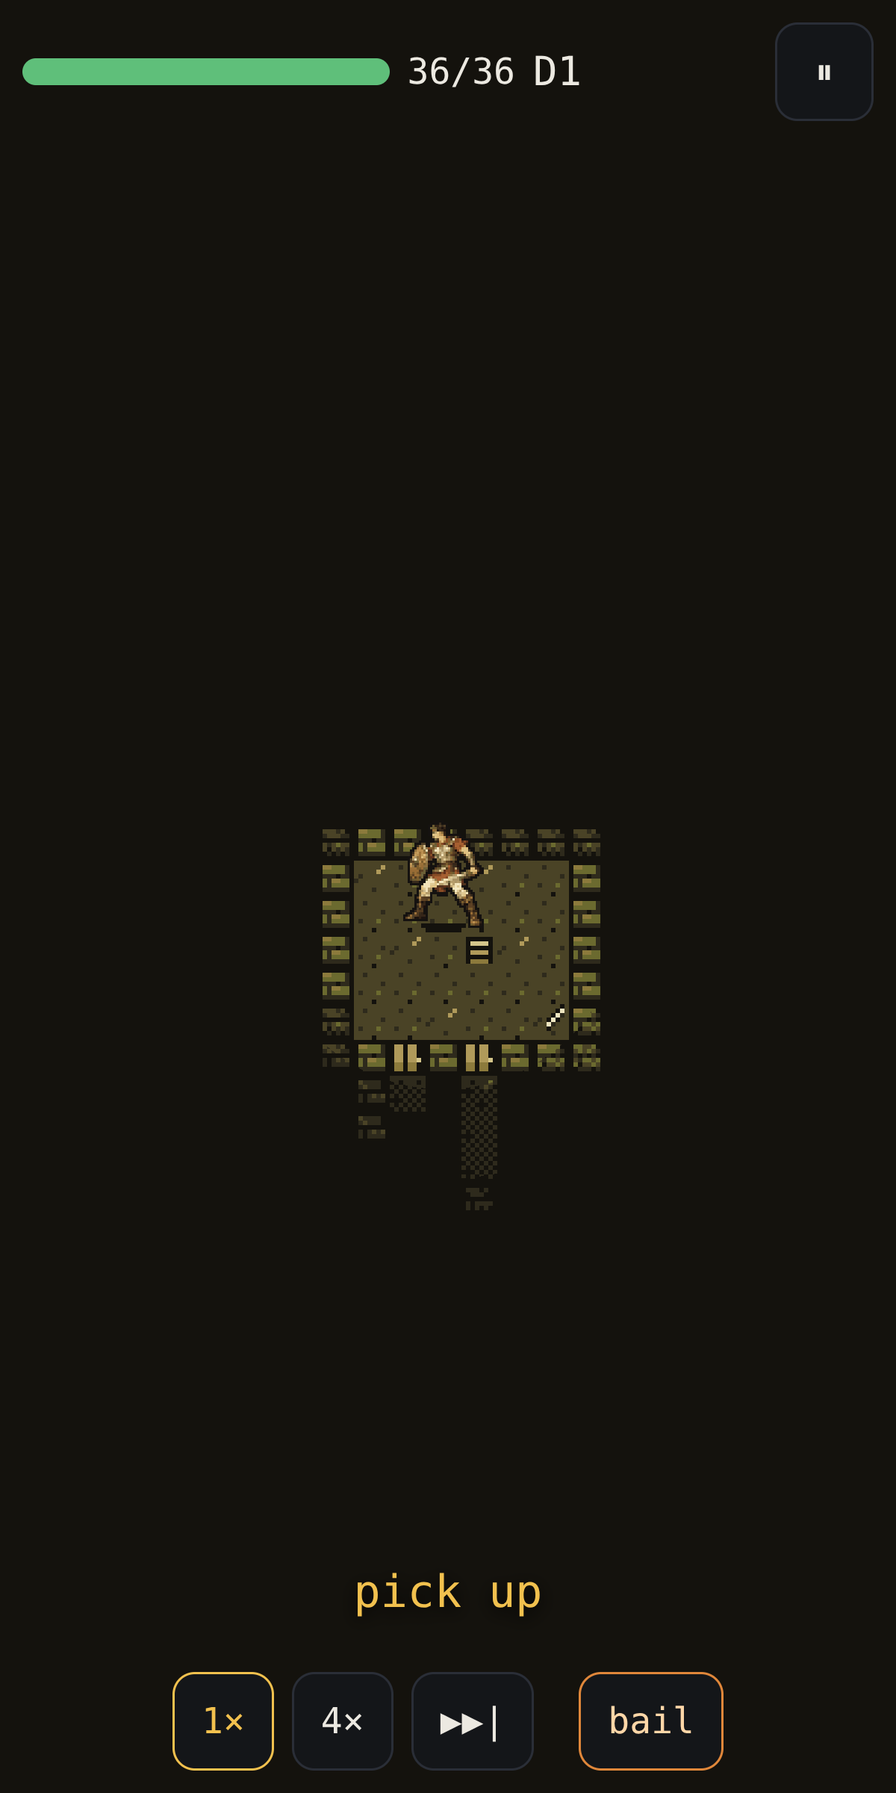
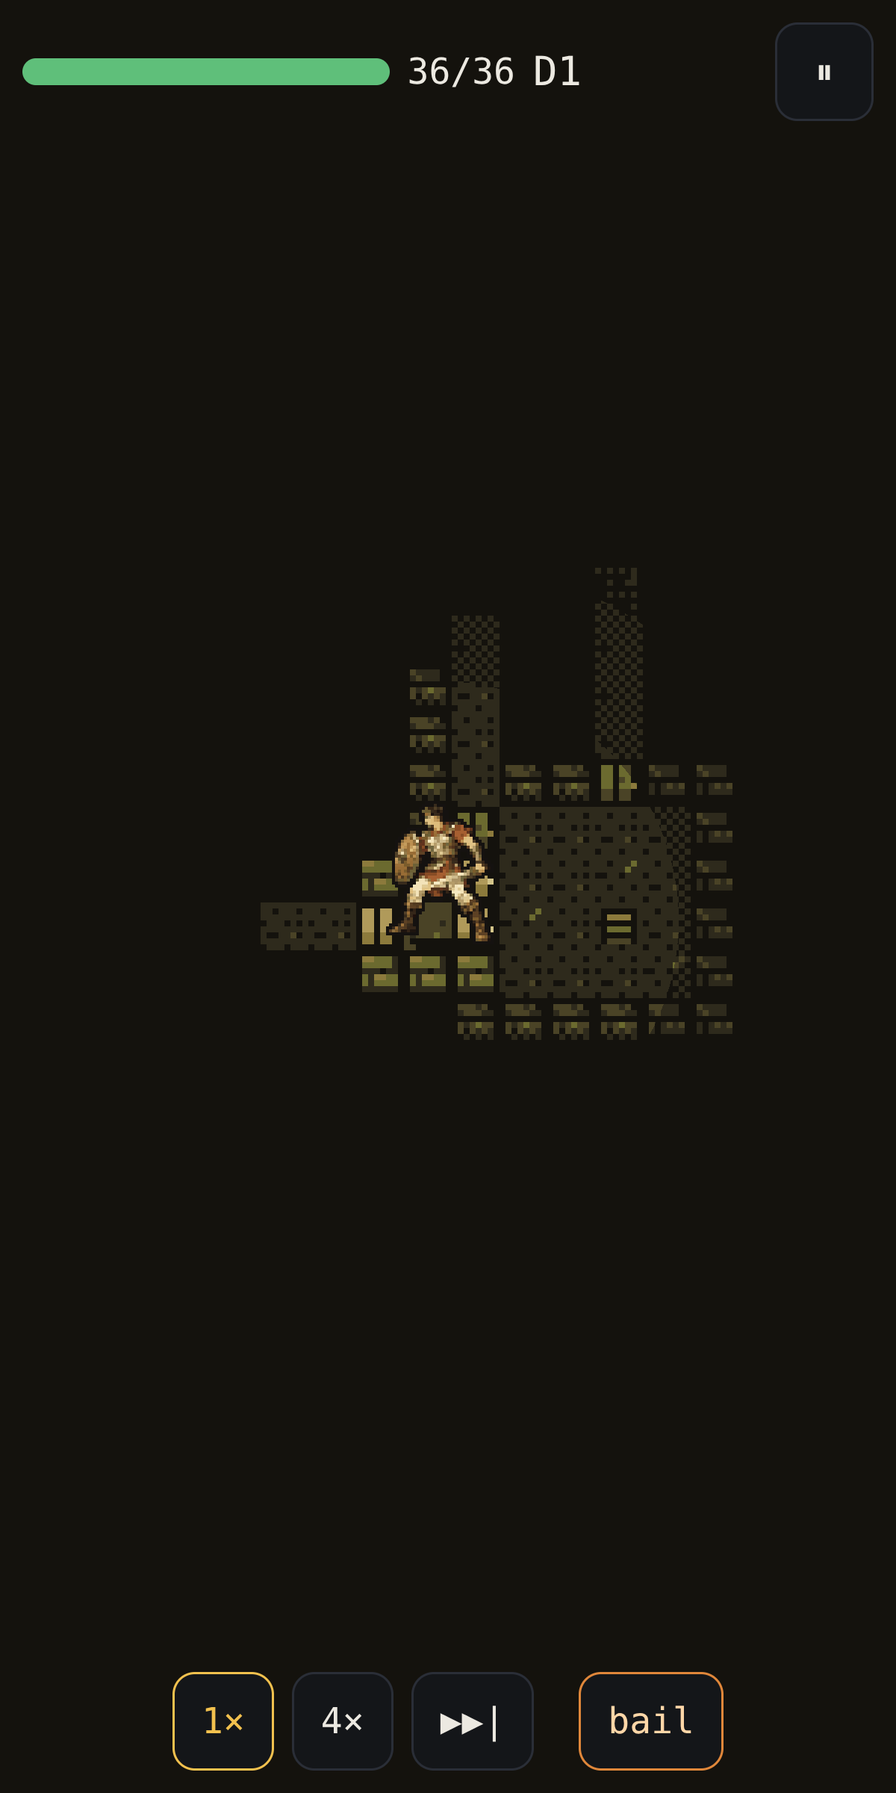
client: phone scale, chunked offline with live progress, ending screen, companion names

Changed region(s): [[0.2775, 0.3125, 0.8325, 0.6875], [0.4008, 0.875, 0.5242, 0.9062], [0.555, 0.875, 0.6167, 0.9062]]

diff --git a/web/src/app.ts b/web/src/app.ts
@@ -7,6 +7,7 @@ import { renderCamp } from "./ui/camp";
 import { renderWatch } from "./ui/watch";
 import { renderDeath } from "./ui/death";
 import { renderReport } from "./ui/report";
+import { renderEnding } from "./ui/ending";
 import { closeAllSheets } from "./ui/sheet";
 import { showBusy } from "./ui/progress";
 
@@ -14,13 +15,17 @@ export type Screen =
   | { kind: "camp"; highlight?: number }
   | { kind: "watch" }
   | { kind: "death"; death: Death; lost?: string[] }
-  | { kind: "report"; report: ReturnReport };
+  | { kind: "report"; report: ReturnReport }
+  | { kind: "ending" };
 
 export type Mounted = { el: HTMLElement; dispose?: () => void };
 
 const OFFLINE_MIN_S = 60;
 const SETS = 3;
 const SAVE_DEBOUNCE_MS = 1000;
+// runOffline is chunked so the progress label can count runs. Every slice pays the worst-death verdict
+// (~2.3 s in wasm), so slices grow with the absence: 30 min for an hour away, 80 min for 8 h, 2 h cap.
+const OFFLINE_SLICE_MIN_S = 30 * 60, OFFLINE_SLICE_MAX_S = 2 * 3600, OFFLINE_SLICES = 6;
 
 export class App {
   engine!: AsyncEngine;
@@ -42,6 +47,9 @@ export class App {
   private fcDirty = false;
   private fcListeners = new Set<(f: Forecast) => void>();
   private changeListeners = new Set<() => void>();
+  private offlineRunning = false;
+  /** Runs seen by this client (the wire Lineage has no run counter); persisted in the blob. */
+  runsSeen = 0;
 
   constructor(root: HTMLElement) { this.root = root; }
 
@@ -55,6 +63,7 @@ export class App {
       try {
         this.lineage = await this.engine.load(blob.engine);
         this.loadout = blob.loadout;
+        this.runsSeen = blob.runs ?? 0;
         elapsed = Math.max(0, (Date.now() - blob.last_seen) / 1000);
         loaded = true;
       } catch (e) { console.warn("save rejected, new lineage", e); }
@@ -67,7 +76,10 @@ export class App {
     window.addEventListener("pagehide", () => this.flushSync());
     setInterval(() => { if (!document.hidden) void this.flush(); }, 30_000);
     if (loaded && elapsed >= OFFLINE_MIN_S) {
-      const report = await this.busy(/* copy:label */ "offline", () => this.engine.runOffline(Math.floor(elapsed)));
+      // the camp (last state) shows underneath, inert, while the batch runs (no forecast queued ahead of it)
+      this.offlineRunning = true;
+      this.go({ kind: "camp" });
+      const report = await this.runOfflineChunked(Math.floor(elapsed));
       await this.refresh();
       this.adoptSets();
       this.go({ kind: "report", report });
@@ -77,8 +89,44 @@ export class App {
 
   /** Runs an engine call behind the progress bar. */
   async busy<T>(label: string, fn: () => Promise<T>): Promise<T> {
-    const done = showBusy(label);
-    try { return await fn(); } finally { done(); }
+    const b = showBusy(label);
+    try { return await fn(); } finally { b.done(); }
+  }
+
+  /** `runOffline` in ≤ 30-minute slices, reports merged client-side, progress label `runs N · best Dk`. */
+  async runOfflineChunked(elapsedS: number): Promise<ReturnReport> {
+    this.offlineRunning = true;
+    this.root.inert = true;
+    const b = showBusy(/* copy:label */ "offline");
+    let merged: ReturnReport | null = null;
+    try {
+      const slice = Math.min(OFFLINE_SLICE_MAX_S, Math.max(OFFLINE_SLICE_MIN_S, Math.ceil(elapsedS / OFFLINE_SLICES)));
+      for (let left = elapsedS; left > 0; left -= slice) {
+        const r = await this.engine.runOffline(Math.min(left, slice));
+        merged = merged ? mergeReports(merged, r) : r;
+        const best = Math.max(this.lineage.best_depth, ...merged.bests.map((x) => Number(/^D(\d+)$/.exec(x)?.[1] ?? 0)));
+        b.set(`runs ${merged.runs} · best D${best}`);
+      }
+    } finally { b.done(); this.root.inert = false; this.offlineRunning = false; }
+    this.runsSeen += merged!.runs;
+    return merged!;
+  }
+  totalRuns(): number { return this.runsSeen; }
+
+  /** After the ending: a fresh lineage that keeps the player's three rule sets (facts, classes, meta reset —
+   *  the core has no carry-over method). */
+  async again(): Promise<void> {
+    const sets = this.sets.map(cloneSet); const active = this.active;
+    this.lineage = await this.engine.newLineage(randomSeed());
+    for (let i = 0; i < sets.length; i++) { await this.engine.selectSet(i); await this.engine.setRules(sets[i]).catch(() => { /* a set the fresh vocabulary rejects stays the preset */ }); }
+    await this.engine.selectSet(active);
+    this.lineage = await this.engine.lineage();
+    this.loadout = []; this.runsSeen = 0;
+    this.adoptSets();
+    await this.engine.loadout([]);
+    this.vocab = await this.engine.vocabulary();
+    await this.flush();
+    this.go({ kind: "camp" });
   }
 
   private async fresh(): Promise<void> {
@@ -106,7 +154,7 @@ export class App {
   onForecast(fn: (f: Forecast) => void): () => void { this.fcListeners.add(fn); return () => this.fcListeners.delete(fn); }
   async emitForecast(): Promise<void> {
     if (!this.fcListeners.size) return;
-    if (this.fcInFlight) { this.fcDirty = true; return; }
+    if (this.fcInFlight || this.offlineRunning) { this.fcDirty = true; return; }
     this.fcInFlight = true; this.fcDirty = false;
     try {
       const f = await this.busy(/* copy:label */ "forecast", () => this.engine.forecast());
@@ -171,14 +219,14 @@ export class App {
   }
   /** pagehide/visibilitychange cannot await the worker: write the last save string fetched. */
   private flushSync(): void { if (this.lastSave) writeBlob(this.blob()); }
-  private blob(): SaveBlob { return { v: 2, engine: this.lastSave, loadout: this.loadout, last_seen: Date.now() }; }
+  private blob(): SaveBlob { return { v: 2, engine: this.lastSave, loadout: this.loadout, last_seen: Date.now(), runs: this.runsSeen }; }
   exportSave(): string { return JSON.stringify(this.blob()); }
   async importSave(text: string): Promise<boolean> {
     try {
       const b = JSON.parse(text) as SaveBlob;
       if (!b || typeof b.engine !== "string") return false;
       this.lineage = await this.engine.load(b.engine);
-      this.loadout = b.loadout ?? [];
+      this.loadout = b.loadout ?? []; this.runsSeen = b.runs ?? 0;
       this.adoptSets();
       await this.engine.setRules(this.rules); await this.engine.loadout(this.loadout);
       this.vocab = await this.engine.vocabulary();
@@ -194,8 +242,10 @@ export class App {
     this.mounted?.dispose?.();
     this.screen = screen;
     let m: Mounted;
+    if (screen.kind === "camp" && this.lineage.ended) screen = { kind: "ending" };
     switch (screen.kind) {
       case "camp": m = renderCamp(this, screen.highlight); break;
+      case "ending": m = renderEnding(this); break;
       case "watch": m = renderWatch(this); break;
       case "death": m = renderDeath(this, screen.death, screen.lost ?? []); break;
       case "report": m = renderReport(this, screen.report); break;
@@ -206,6 +256,29 @@ export class App {
     window.scrollTo(0, 0);
     this.persist();
   }
+}
+
+/** Merge two offline reports (a then b): sums, unions in order, reel top 5, worst = deeper (ties: later). */
+export function mergeReports(a: ReturnReport, b: ReturnReport): ReturnReport {
+  const union = (x: string[], y: string[]): string[] => [...new Set([...x, ...y])];
+  const deaths = new Map<string, number>();
+  for (const d of [...a.deaths, ...b.deaths]) deaths.set(d.cause, (deaths.get(d.cause) ?? 0) + d.n);
+  const salv = new Map<string, { n: number; gold: number }>();
+  for (const s of [...a.salvaged, ...b.salvaged]) { const m = salv.get(s.kind) ?? { n: 0, gold: 0 }; m.n += s.n; m.gold += s.gold; salv.set(s.kind, m); }
+  const worst = !a.worst_death ? b.worst_death : !b.worst_death ? a.worst_death : b.worst_death.depth >= a.worst_death.depth ? b.worst_death : a.worst_death;
+  return {
+    elapsed_s: a.elapsed_s + b.elapsed_s, runs: a.runs + b.runs, sampled: a.sampled || b.sampled,
+    learned: union(a.learned, b.learned), bests: union(a.bests, b.bests),
+    found: [...a.found, ...b.found],
+    deaths: [...deaths].map(([cause, n]) => ({ cause, n })).sort((x, y) => y.n - x.n),
+    pending: b.pending,                                   // decisions waiting now (a state, not a delta)
+    reel: [...a.reel, ...b.reel].sort((x, y) => y.score - x.score).slice(0, 5),
+    marks_earned: a.marks_earned + b.marks_earned, worst_death: worst, live: b.live,
+    tamed: [...a.tamed, ...b.tamed], hatched: [...a.hatched, ...b.hatched], lost: [...a.lost, ...b.lost],
+    xp: { class: b.xp.class, gained: a.xp.gained + b.xp.gained, level_ups: a.xp.level_ups + b.xp.level_ups },
+    salvaged: [...salv].map(([kind, v]) => ({ kind, ...v })),
+    renown: { gained: a.renown.gained + b.renown.gained, rank: b.renown.rank, ranks_up: a.renown.ranks_up + b.renown.ranks_up },
+  };
 }
 
 export const cloneRow = (r: Row): Row => ({ conds: r.conds.map((c) => ({ ...c })), verb: { ...r.verb } });

diff --git a/web/src/ui/watch.ts b/web/src/ui/watch.ts
@@ -50,9 +50,11 @@ export function renderWatch(app: App): Mounted {
   const cls = app.lineage.class;
   const before = { best: app.lineage.best_depth, marks: app.lineage.marks, level: app.lineage.classes?.[cls]?.level ?? 1, xp: app.lineage.classes?.[cls]?.xp ?? 0, renown: app.lineage.renown ?? 0, rank: app.lineage.rank ?? 0 };
   const learned: string[] = [], found: InvItem[] = [], notes: Highlight[] = [], tamed: string[] = [], lost: string[] = [];
-  const kinds = new Map<number, string>();
-  const partyAtStart = (app.lineage.party ?? []).map((c) => c.kind);
-  const lostKind = (id: number): string => kinds.get(id) ?? "?";
+  const kinds = new Map<number, string>(), names = new Map<number, string>();
+  const partyAtStart = (app.lineage.party ?? []).map((c) => `${c.kind} · ${c.name}`);
+  const tamedIds: number[] = [], lostIds: number[] = [];
+  const compLabel = (id: number): string => { const n = names.get(id); return `${kinds.get(id) ?? "?"}${n ? ` · ${n}` : ""}`; };
+  const note_ = (e: { id: number; kind: string; name?: string }): void => { kinds.set(e.id, e.kind); if (e.name) names.set(e.id, e.name); };
   // HUD updates released at the viewer's clock
   const hud = { hp: 0, maxHp: 1, depth: 1 };
   const timed: { t: number; f: () => void }[] = [];
@@ -108,9 +110,9 @@ export function renderWatch(app: App): Mounted {
         case "pickup": if (ev.id === heroId) found.push({ id: ev.id, kind: ev.item, known: true, label: ev.item }); break;
         case "note": notes.push({ pattern: "note", score: 0, t: ev.t, run_id: runId, text: ev.text }); break;
         case "exit": exit = ev.tier; break;
-        case "tame": if (ev.ok) tamed.push(ev.kind); break;
-        case "ally": if (ev.state === "lost") lost.push(lostKind(ev.id)); break;
-        case "spawn": kinds.set(ev.e.id, ev.e.kind); break;
+        case "tame": if (ev.ok) { tamedIds.push(ev.id); kinds.set(ev.id, ev.kind); } break;
+        case "ally": if (ev.state === "lost") lostIds.push(ev.id); break;
+        case "spawn": note_(ev.e); break;
         case "level": for (const v of verbsAt(ev.class, ev.level)) learned.push(`verb:${v}`); at(ev.t, () => callout(`${ev.class} L${ev.level}`)); break;
         case "rank": at(ev.t, () => callout(`★${ev.rank}`)); break;
         default: break;
@@ -121,7 +123,7 @@ export function renderWatch(app: App): Mounted {
   function handle(r: StepResult): void {
     const s = r.snapshot;
     engineTick = s.turn;
-    for (const e of s.entities) kinds.set(e.id, e.kind);
+    for (const e of s.entities) note_(e);
     const exit = absorb(r.events, s);
     const di = r.events.findIndex((e) => e.k === "descend");
     if (viewer && di >= 0) { viewer.apply(r.events.slice(0, di + 1)); pendingLoad = { snap: s, rest: r.events.slice(di + 1) }; }
@@ -186,9 +188,12 @@ export function renderWatch(app: App): Mounted {
     if (pendingExit && pendingExit.items.length) { const p = pendingExit; pendingExit = undefined; exitSheet(p, () => { done = false; void finish(tier); }); return; }
     pendingExit = undefined;
     await app.refresh();
+    app.runsSeen += 1;
     if (disposed) return;
+    tamed.push(...tamedIds.map(compLabel));
+    lost.push(...lostIds.map(compLabel));
     if (tier === "death") {
-      for (const c of partyAtStart) if (!lost.includes(c)) lost.push(c);
+      for (const c of partyAtStart) if (!lost.some((l) => l === c || l.endsWith(c.slice(c.indexOf(" · "))))) lost.push(c);
       try {
         const death = await app.busy(/* copy:label */ "verdict", () => app.engine.death(runId));
         if (!disposed) app.go({ kind: "death", death, lost });
@@ -237,7 +242,7 @@ export function renderWatch(app: App): Mounted {
     try { s = await app.engine.send(); } catch (e) { console.warn("send failed", e); if (!disposed) app.go({ kind: "camp" }); return; }
     if (disposed) return;
     snap = s; runId = s.run.id; engineTick = startTick = s.turn;
-    for (const e of s.entities) kinds.set(e.id, e.kind);
+    for (const e of s.entities) note_(e);
     hudFrom(s);
     const { viewer: v } = await makeViewer(canvas);
     if (disposed) { v.dispose(); return; }

diff --git a/web/src/ui/party.ts b/web/src/ui/party.ts
@@ -48,7 +48,7 @@ export function renderParty(app: App): { el: HTMLElement; refresh(): void } {
     };
     return h("div", { class: `card comp${inParty ? " on" : ""}${picked ? " pick" : ""}${breeding && c.level < 2 ? " off" : ""}` },
       h("button", { class: "comp-main", onclick: onTap },
-        h("span", { class: "name" }, nice(c.kind), " ", h("b", { class: "num" }, `L${c.level}`), h("small", { class: "dim num" }, ` g${c.gen}`)),
+        h("span", { class: "name" }, nice(c.kind), " ", h("small", { class: "dim" }, c.name), " ", h("b", { class: "num" }, `L${c.level}`), h("small", { class: "dim num" }, ` g${c.gen}`)),
         h("span", { class: "tags dim" }, c.tags.map(nice).join(" · ")),
         h("span", { class: "hp num dim" }, `${c.hp}/${c.max_hp} · ${c.rules.rows.length}/${c.max_rows}`)),
       h("button", { class: "grip", onclick: () => openRules(app, c) }, "≡"));
@@ -65,7 +65,7 @@ function openRules(app: App, c: Companion): void {
       vocab: () => vocab,
       changed: () => { void app.engine.setCompanionRules(c.id, local).catch((e) => console.warn("companion rules", e)); c.rules = cloneSet(local); app.persist(); },
     });
-    return h("div", { class: "sheet-body" }, h("div", { class: "sheet-head" }, nice(c.kind), " ", h("b", { class: "num" }, `L${c.level}`)), ed.el);
+    return h("div", { class: "sheet-body" }, h("div", { class: "sheet-head" }, nice(c.kind), " ", c.name, " ", h("b", { class: "num" }, `L${c.level}`)), ed.el);
   })).catch((e) => console.warn("companion vocabulary", e));
 }
 

diff --git a/web/src/ui/ending.ts b/web/src/ui/ending.ts
@@ -1,0 +1,21 @@
+// Ending: the title art full-bleed, the heir that reached the bottom, four numbers, `again`.
+// Zero prose (copy surface `ending` allows 60 words; the numbers do the telling).
+import type { App, Mounted } from "../app";
+import { h } from "./dom";
+
+export function renderEnding(app: App): Mounted {
+  const L = app.lineage;
+  const tile = (n: string, label: string): HTMLElement => h("div", { class: "tile" }, h("b", { class: "num" }, n), h("span", { class: "label" }, label));
+  const again = h("button", { class: "btn primary send", onclick: () => { again.disabled = true; void app.again(); } }, /* copy:button */ "again");
+  const el = h("main", { class: "ending" },
+    h("img", { class: "title-art", src: "/art/title.png", alt: "" }),
+    h("div", { class: "ending-body" },
+      h("div", { class: "ending-heir num" }, `♟${L.heir}`, " ", h("span", { class: "dim" }, `D${L.best_depth}`)),
+      h("div", { class: "tiles" },
+        tile(`${app.totalRuns()}`, /* copy:label */ "runs"),
+        tile(`${L.graveyard.length}`, /* copy:label */ "deaths"),
+        tile(`${L.facts.length}`, /* copy:label */ "facts"),
+        tile(`${L.renown}`, /* copy:label */ "renown")),
+      h("div", { class: "send-bar" }, again)));
+  return { el };
+}

diff --git a/web/src/ui/report.ts b/web/src/ui/report.ts
@@ -19,7 +19,9 @@ export function renderReport(app: App, r: ReturnReport): Mounted {
   // repeats (three goblin archers tamed) collapse to one chip with a count
   const chips = (xs: string[], cls = "chip"): HTMLElement | null => {
     const n = new Map<string, number>(); for (const x of xs) n.set(x, (n.get(x) ?? 0) + 1);
-    return n.size ? h("div", { class: "chips" }, ...[...n].map(([x, k]) => h("span", { class: cls }, nice(x), k > 1 ? h("b", { class: "num" }, ` ×${k}`) : ""))) : null;
+    // "kind · name" (companions) renders the name small
+    const label = (x: string): (string | HTMLElement)[] => { const i = x.indexOf(" · "); return i < 0 ? [nice(x)] : [nice(x.slice(0, i)), h("small", { class: "dim" }, ` ${x.slice(i + 3)}`)]; };
+    return n.size ? h("div", { class: "chips" }, ...[...n].map(([x, k]) => h("span", { class: cls }, ...label(x), k > 1 ? h("b", { class: "num" }, ` ×${k}`) : ""))) : null;
   };
   const lines = (xs: string[]): HTMLElement | null => xs.length ? h("ul", { class: "lines" }, ...xs.map((x) => h("li", null, nice(x)))) : null;
   // identical reel lines (the same pattern in several runs) collapse to one with a count

diff --git a/web/src/ui/viewer.ts b/web/src/ui/viewer.ts
@@ -19,7 +19,13 @@ const mods = import.meta.glob<RenderMod>("../render/index.ts");
 export async function makeViewer(canvas: HTMLCanvasElement): Promise<{ viewer: Viewer; real: boolean }> {
   const loader = Object.values(mods)[0];
   if (loader && new URLSearchParams(location.search).get("view") !== "2d") {
-    try { const m = await loader(); return { viewer: m.createViewer(canvas), real: true }; }
+    try {
+      const m = await loader();
+      // phones: 150 env texels along the short axis (k = 8 at dpr 3 → 21 CSS-px tiles, ~19 across,
+      // hero ≈ 1/12 of the height); desktop keeps the renderer's default 200
+      const short = Math.min(canvas.clientWidth || window.innerWidth, canvas.clientHeight || window.innerHeight);
+      return { viewer: m.createViewer(canvas, { baseTexels: short < 600 ? 150 : 200 }), real: true };
+    }
     catch (e) { console.warn("renderer unavailable, placeholder view", e); }
   }
   return { viewer: createPlaceholderViewer(canvas), real: false };

diff --git a/web/src/styles.css b/web/src/styles.css
@@ -200,3 +200,13 @@ main { display: flex; flex-direction: column; gap: 4px; padding-bottom: 96px; }
 /* report: dense fact chips (an 8 h batch learns dozens) */
 .report .chips .chip { min-height: 32px; padding: 0 10px; font-size: 14px; }
 .report .chip small { color: var(--dim); }
+
+/* ending */
+#app[data-screen="ending"] { max-width: none; padding: 0; }
+.ending { position: fixed; inset: 0; padding: 0; gap: 0; }
+.title-art { position: absolute; inset: 0; width: 100%; height: 100%; object-fit: cover; object-position: center; image-rendering: auto; }
+.ending-body { position: absolute; left: 0; right: 0; bottom: 0; padding: 24px 12px calc(96px + env(safe-area-inset-bottom)); max-width: 520px; margin: 0 auto; background: linear-gradient(transparent, rgba(11,12,15,.92) 40%); }
+.ending-heir { font-size: 28px; margin-bottom: 12px; text-shadow: 0 2px 8px #000; }
+.ending .tiles { margin-top: 0; }
+.ending .tile { background: rgba(20,22,27,.85); }
+#app[inert] { opacity: .55; }

diff --git a/web/src/ui/progress.ts b/web/src/ui/progress.ts
@@ -18,10 +18,11 @@ function paint(): void {
   label!.textContent = texts[texts.length - 1];
 }
 
-/** Shows the bar with a label (copy surface: label, one word) until the returned function is called. */
-export function showBusy(text: string): () => void {
+export type Busy = { done(): void; set(text: string): void };
+/** Shows the bar with a label (copy surface: label) until `done()`; `set` updates the label. */
+export function showBusy(text: string): Busy {
   const id = next++;
   active.set(id, text);
   paint();
-  return () => { active.delete(id); paint(); };
+  return { done: () => { active.delete(id); paint(); }, set: (t) => { if (active.has(id)) { active.set(id, t); paint(); } } };
 }

diff --git a/web/src/store.ts b/web/src/store.ts
@@ -1,6 +1,6 @@
 // localStorage persistence: engine save string + loadout + last_seen. (v1 blobs also carried client-side
 // set tabs; the engine's saved sets are the truth now, so v1 is read but its sets are ignored.)
-export type SaveBlob = { v: 1 | 2; engine: string; loadout: number[]; last_seen: number };
+export type SaveBlob = { v: 1 | 2; engine: string; loadout: number[]; last_seen: number; runs?: number };
 const KEY = "riddle.save";
 
 export function readBlob(): SaveBlob | null {

diff --git a/docs/INTEGRATION.md b/docs/INTEGRATION.md
@@ -140,3 +140,40 @@ Console: zero errors or warnings on every step (page errors, worker errors and c
 - **Offline boot**: the page is blank except for the 3 px bar for up to ~10 s. A player may
   think it hung; a `runs so far` count would need chunked batches from the core.
 - **Lost companions** are listed by name (`◯ Zelim`) while tamed/hatched are listed by kind.
+
+## Follow-ups (same day, after commit 8499740)
+
+1. **Phone map scale.** `ui/viewer.ts` passes `baseTexels: 150` when the canvas's short side is
+   < 600 CSS px (else the renderer's default 200). At 400×800 @3: k = 8, a tile is 21 CSS px,
+   ~19 tiles across, hero ≈ 1/12 of the height. Desktop unchanged. Re-shot: `02-watch-phone.png`.
+2. **Chunked offline.** `App.runOfflineChunked` calls `runOffline` per slice and merges the
+   reports (`mergeReports`: sums runs/deaths/xp/renown/marks/salvaged, unions learned/bests,
+   concatenates tamed/hatched/lost/found, reel = top 5 by score, worst_death = deeper (ties: later),
+   live = last, pending = last slice's (it is a state, not a delta), sampled = any). The camp
+   renders first with the last state, `inert` and dimmed, and the bar reads `RUNS N · BEST Dk`
+   after each slice (`27-offline-progress-phone.png`); the forecast is deferred until the batch is
+   done so it does not queue ahead of the first slice.
+   *Slice size.* Every slice pays the worst-death verdict + four patch forecasts inside the core's
+   `report()` (~2.3 s in wasm on this loaded machine). With the requested ≤ 30-minute slices an 8 h
+   absence took **46–50 s** (16 slices) against ~10 s for one call, so the slice is
+   `clamp(elapsed / 6, 30 min, 2 h)`: 1 h → 2 slices, 3.3 s; 8 h → 80-min slices, **16.3 s**
+   total, first count at 2.9 s; 24 h → 2 h slices, 51 s (12 slices). Recommendation for the core: a
+   `run_offline` variant (or flag) that skips the verdict, then 30-minute slices cost nothing extra
+   and the count can tick every ~0.6 s.
+3. **Ending.** `ui/ending.ts`: `/art/title.png` full-bleed (`object-fit: cover`), `♟heir Dbest`,
+   four tiles (runs · deaths · facts · renown), one button `again`. Shown whenever the app would
+   show the camp and `lineage.ended` is true (so the report's `camp` button lands on it). The core
+   has no ascend/carry-over method, so `again` = `newLineage(fresh seed)` with the three rule sets
+   re-applied via `selectSet`/`setRules` (facts, classes, gold, marks, kennel reset). The wire
+   `Lineage` has no run counter, so "runs" is counted client-side (`runsSeen`, in the save blob):
+   watched runs + offline `report.runs` since the lineage began. Reached in the test by a 3-row
+   `retreat / rest / attack` set in the second 8 h batch: `28-ending-phone.png`,
+   `28-ending-wide.png`, `29-camp-after-again-phone.png` (heir 1, same 3 rows, 0 facts).
+4. **Names.** Kennel/party cards and the companion rule sheet show `kind name L g` (`jackal
+   Zelim`). Reports from a watched run list tamed and lost companions as `kind · name` (name from
+   the snapshot entity), rendered kind + small name. Offline reports keep what the core sends:
+   `tamed`/`hatched` are kinds, `lost` are names only — pairing them needs the core to emit
+   `kind · name` (or both fields) in `ReturnReport`.
+
+`pnpm -s build`, `tsc`, `node tools/copy-lint.mjs` clean; zero console errors on the ending,
+again, and chunked-offline walks.
